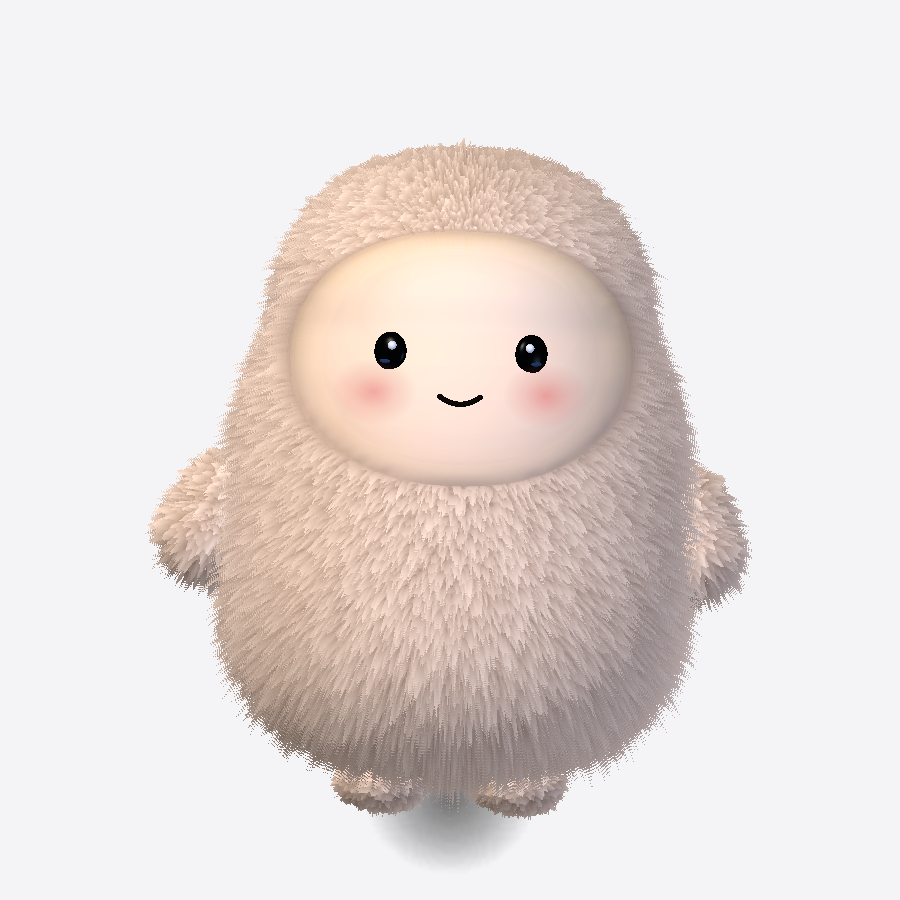
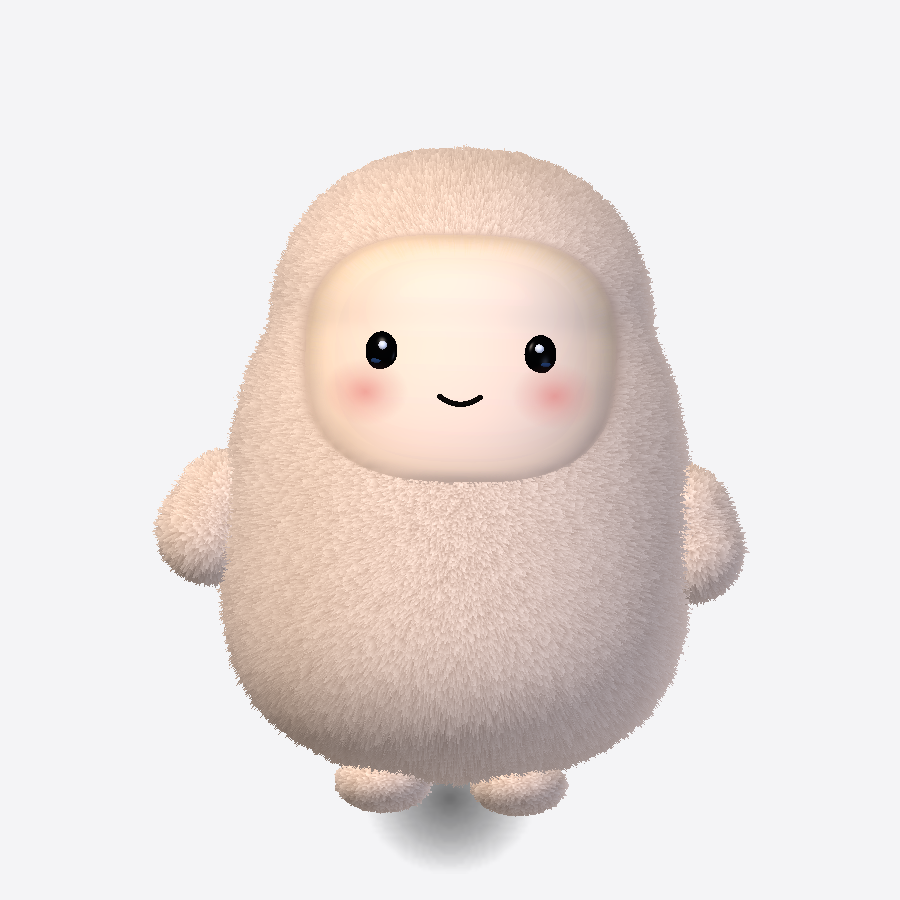
Rounder oval face, shorter denser fur (no wet clumps), wider-set eyes

diff --git a/Sources/Pip/PipRig.swift b/Sources/Pip/PipRig.swift
@@ -43,8 +43,8 @@ final class PipRig: PetRig {
 
     /// 脸的椭圆（宽 38、高 33），不是正圆
     /// 脸：偏大的圆角方形（超椭圆），占头部大半——参考原版，下巴干净、不被毛盖住
-    private let faceWidth: CGFloat = 46
-    private let faceHeight: CGFloat = 35
+    private let faceWidth: CGFloat = 42
+    private let faceHeight: CGFloat = 34
     /// 脸那张软片的深度：比肚子最鼓的地方再靠前一点，否则下半张脸会被绒毛吃掉
     /// 脸中心在身体上的高度。脸是贴着身体曲面长的一块（不是浮在前面的平面片），侧身时不会戳出轮廓
     private let faceCenterY: CGFloat = 60
@@ -72,7 +72,7 @@ final class PipRig: PetRig {
     private let faceBulge: CGFloat = 3.6
     private func faceLift(atX x: CGFloat, y: CGFloat) -> CGFloat {
         let dx = abs(x / (faceWidth / 2)), dy = abs((y - faceCenterY) / (faceHeight / 2))
-        let r = pow(pow(dx, 2.15) + pow(dy, 2.15), 1 / 2.15)
+        let r = pow(pow(dx, 2.7) + pow(dy, 2.7), 1 / 2.7)
         let t = max(0, 1 - r * r)
         return faceLift + faceBulge * sqrt(t)
     }
@@ -91,8 +91,8 @@ final class PipRig: PetRig {
     private let eyeGroupL = SCNNode()
     private let eyeGroupR = SCNNode()
     /// 眼珠的原始位置，眼神偏移以它为基准
-    private let eyeBaseL = CGPoint(x: -9.4, y: 61.0)
-    private let eyeBaseR = CGPoint(x: 9.4, y: 61.0)
+    private let eyeBaseL = CGPoint(x: -10.6, y: 61.0)
+    private let eyeBaseR = CGPoint(x: 10.6, y: 61.0)
     /// 眼神方向（-1…1，已在 Stage 里按朝向翻过），由 setGaze 写入、apply 里统一生效
     private var gaze = CGPoint.zero
     private let armPivotL = SCNNode()
@@ -136,7 +136,7 @@ final class PipRig: PetRig {
         let body = Lathe.node(profile: Self.bodyProfile, segments: 96, material: furMaterial)
         // 毛的粗细要接近 1 个屏幕点：周长约 188 点 / (2.8 × 128) ≈ 0.5 点一根（0.9 太粗像刺猬，0.08 太细会闪）。
         // 再细就会小于一个像素，每帧采到不同的毛 → 闪烁噪点（实测过）
-        Fur.apply(to: body, colors: furColors, length: 5.4, tile: CGSize(width: 4.6, height: 2.0), layers: 20,
+        Fur.apply(to: body, colors: furColors, length: 3.3, tile: CGSize(width: 9, height: 3.9), layers: 20,
                   faceHole: SCNVector4(0, faceCenterY, faceWidth / 2, faceHeight / 2))
         bodyGroup.addChildNode(body)
 
@@ -238,7 +238,7 @@ final class PipRig: PetRig {
         let foot = sphereNode(radius: 5.6, material: furMaterial)
         foot.scale = SCNVector3(1.05, 0.68, 1.25)
         foot.position = SCNVector3(0, -8.4, 1.6)
-        Fur.apply(to: foot, colors: furColors, length: 1.6, tile: CGSize(width: 0.6, height: 0.3))
+        Fur.apply(to: foot, colors: furColors, length: 1.3, tile: CGSize(width: 1.2, height: 0.6))
         pivot.addChildNode(foot)
     }
 
@@ -250,7 +250,7 @@ final class PipRig: PetRig {
         let arm = capsuleNode(radius: 6.2, height: 17, material: furMaterial)
         arm.position = SCNVector3(sign * 4.0, -6.0, 0)
         arm.eulerAngles = SCNVector3(0, 0, sign * 0.45)
-        Fur.apply(to: arm, colors: furColors, length: 3.0, tile: CGSize(width: 0.8, height: 0.5), layers: 16)
+        Fur.apply(to: arm, colors: furColors, length: 2.2, tile: CGSize(width: 1.6, height: 1.0), layers: 16)
         pivot.addChildNode(arm)
     }
 
@@ -267,7 +267,7 @@ final class PipRig: PetRig {
 
         // 眼睛（小椭圆 + 冷光）
         for (group, sign) in [(eyeGroupL, CGFloat(-1)), (eyeGroupR, CGFloat(1))] {
-            stick(group, x: sign * 9.4, y: 61, lift: faceLift(atX: sign * 9.4, y: 61) + 0.7)
+            stick(group, x: sign * 10.6, y: 61, lift: faceLift(atX: sign * 10.6, y: 61) + 0.7)
 
             let eyeMat = makeSmoothMaterial(PipPalette.eye)
             eyeMat.lightingModel = .blinn
@@ -409,7 +409,7 @@ final class PipRig: PetRig {
                 let nx = (Double(x) + 0.5) / Double(size) * 2 - 1
                 let ny = (Double(y) + 0.5) / Double(size) * 2 - 1
                 // 超椭圆（指数 2.5）：圆角方形的脸，比正椭圆饱满
-                let pw = 2.15   // 接近正椭圆（原版是横向的椭圆脸，不是圆角方形）
+                let pw = 2.7    // 横向的圆头椭圆：比正椭圆两头更圆（正椭圆贴在弧面上两头会显尖）
                 let rho = pow(pow(abs(nx), pw) + pow(abs(ny), pw), 1 / pw)
 
                 var alpha = 1.0
@@ -556,7 +556,7 @@ final class PipRig: PetRig {
         plane.materials = [material]
 
         let node = SCNNode(geometry: plane)
-        stick(node, x: sign * 11.5, y: 55.5, lift: faceLift(atX: sign * 11.5, y: 55.5) + 0.2)
+        stick(node, x: sign * 12.6, y: 55.5, lift: faceLift(atX: sign * 12.6, y: 55.5) + 0.2)
         return node
     }
 

diff --git a/Sources/Pip/Fur.swift b/Sources/Pip/Fur.swift
@@ -54,7 +54,7 @@ enum Fur {
     out.furModelPos = _geometry.position.xyz;
     float off = furH * furLen;
     _geometry.position.xyz += _geometry.normal * off;
-    _geometry.position.y -= furH * furH * furLen * 0.45;
+    _geometry.position.y -= furH * furH * furLen * 0.12;   // 少下垂：垂太多像淋湿
     """
 
     private static let surfaceModifier = """
@@ -68,13 +68,13 @@ enum Fur {
     // 脸部禁区：光滑的脸贴在身体曲面上，这一块不长毛（四周的毛自然高出一截，像脸嵌在毛里）
     if (furH > 0.0 && faceHole.z > 0.0 && in.furModelPos.z > 0.0) {
         float2 d = abs((in.furModelPos.xy - faceHole.xy) / faceHole.zw);
-        float r = pow(pow(d.x, 2.15) + pow(d.y, 2.15), 1.0 / 2.15);
+        float r = pow(pow(d.x, 2.7) + pow(d.y, 2.7), 1.0 / 2.7);
         if (r < 0.96) { discard_fragment(); }
     }
     float strand = _surface.emission.r;
     if (furH > 0.0 && strand < furH) { discard_fragment(); }
     float3 c = mix(furRoot, furTip, furH * 0.9 + strand * 0.04);
-    c *= mix(0.82, 1.0, sqrt(furH));
+    c *= mix(0.9, 1.0, sqrt(furH));   // 根部阴影浅一点，缝隙不发黑
     _surface.diffuse = float4(c, 1.0);
     float3 n = normalize(_surface.normal);
     float3 v = normalize(_surface.view);
@@ -122,7 +122,7 @@ enum Fur {
         for i in 0..<(size * size) {
             seed = seed &* 6364136223846793005 &+ 1442695040888963407
             let r = Double((seed >> 33) & 0xFFFFFF) / Double(0xFFFFFF)
-            px[i] = UInt8(min(255, pow(r, 0.75) * 255))
+            px[i] = UInt8(min(255, pow(r, 0.5) * 255))   // 更多毛长到外层 → 外层也密，不结缕
         }
         guard let provider = CGDataProvider(data: Data(px) as CFData) else { return nil }
         return CGImage(width: size, height: size, bitsPerComponent: 8, bitsPerPixel: 8, bytesPerRow: size,

diff --git a/HANDOFF.md b/HANDOFF.md
@@ -234,3 +234,4 @@ swift build                 # 调试编译
 - 脸：横向椭圆 46×35（超椭圆指数 2.15，faceImage / faceLift / Fur 的 faceHole 三处要一致）；从毛里鼓出 3.6 点（faceLift(atX:y:)），
   按网格重算法线、lambert 打光，带粉的瓷白。
 - 眼睛小一号（2.35）、blinn 高光 + 下方淡蓝反光；嘴更小（半宽 2.7）；腮红更大更粉。五官都贴着鼓包。
+- 11-05 再调：脸 42×34、超椭圆指数 2.7（正椭圆贴弧面两头显尖）；毛剪短到 3.3、贴图 9×3.9 更密、下垂 0.12、根部阴影 0.9、毛长分布 pow 0.5（不结缕，之前像淋湿）；眼距 ±10.6、腮红 ±12.6。
